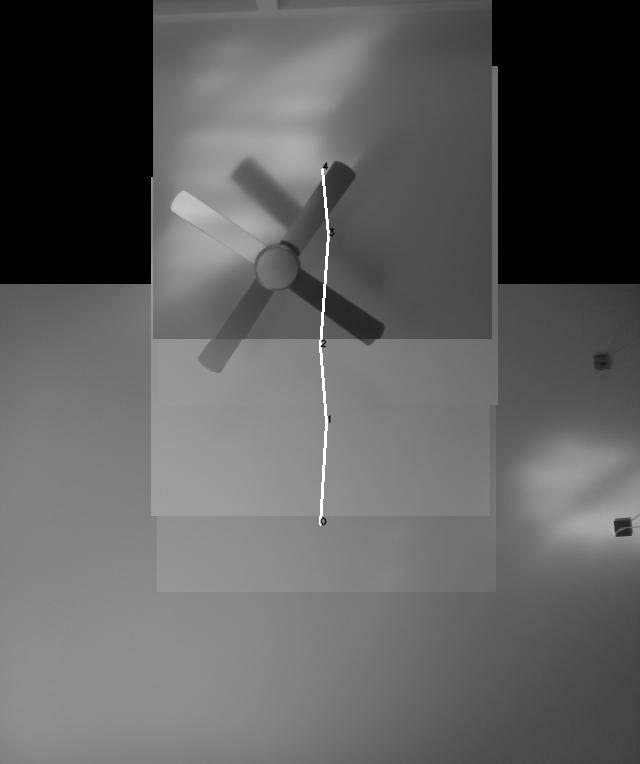
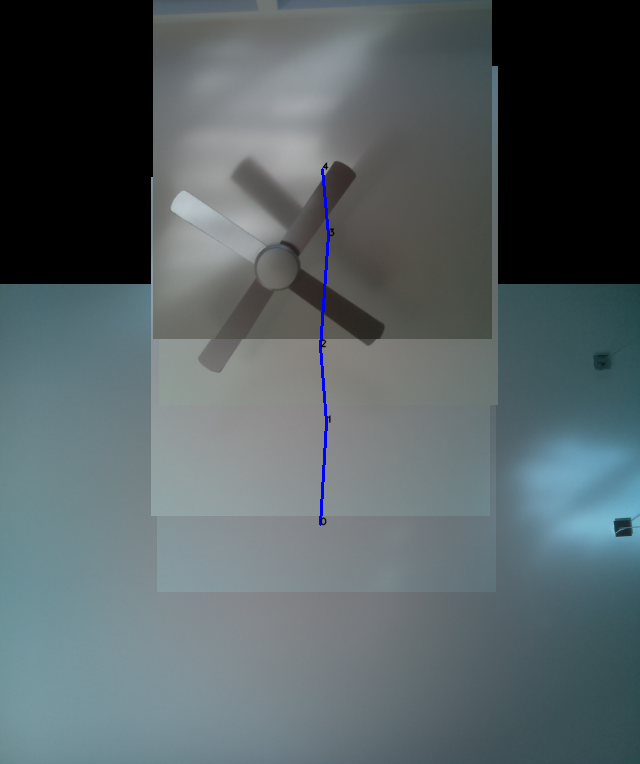
I didn't realise that this would work with colour images...

diff --git a/map_building/mapbuilder/serve.py b/map_building/mapbuilder/serve.py
@@ -34,13 +34,13 @@ def get_map():
     global the_map
     global the_path
 
-    map_bytes = cv2.imencode('.jpg', the_map)[1]
+    map_bytes = cv2.imencode('.png', the_map)[1]
     response_stream = io.BytesIO(map_bytes)
 
     response = flask.make_response(
         flask.send_file(
             response_stream,
-            mimetype='image/jpg'
+            mimetype='image/png'
         )
     )
     # Disable caching.
@@ -65,7 +65,7 @@ def update_map():
     file_data = in_memory_file.getvalue()
     rotation = builder.read_rotation(file_data)
     data = numpy.fromstring(file_data, dtype=numpy.uint8)
-    img = cv2.imdecode(data, 0)
+    img = cv2.imdecode(data, 4)
 
     success = True
     if the_map is None:
@@ -74,7 +74,7 @@ def update_map():
     else:
         the_path, the_map, success = builder.step(the_path, the_map, img, rotation)
 
-    map_bytes = cv2.imencode('.jpg', the_map)[1]
+    map_bytes = cv2.imencode('.png', the_map)[1]
     response_stream = io.BytesIO(map_bytes)
 
     response = flask.redirect('/map')

diff --git a/map_building/mapbuilder/builder.py b/map_building/mapbuilder/builder.py
@@ -261,11 +261,11 @@ def process_test():
     for file in sorted(glob.glob('img/*.jpg')):
 
         if img_map is None:
-            img_map = cv2.imread(file, 0)
+            img_map = cv2.imread(file, 4)
             map_path.append(middle_coordinates(img_map))
             continue
 
-        img_new = cv2.imread(file, 0)
+        img_new = cv2.imread(file, 4)
 
         with open(file, 'rb') as img_f:
             rotation = read_rotation(img_f.read())
